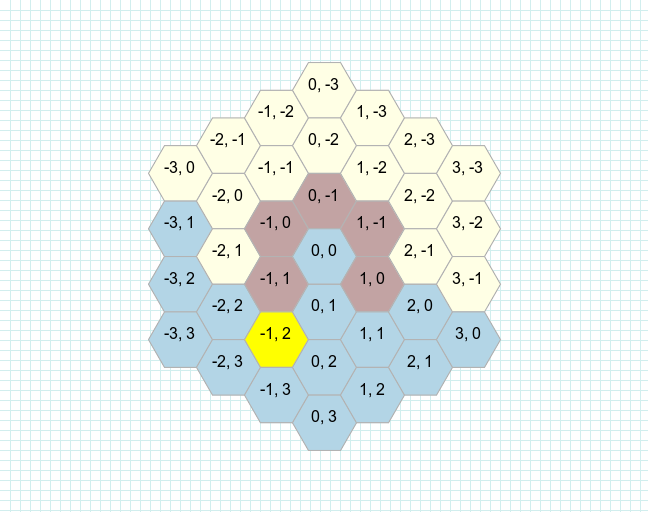
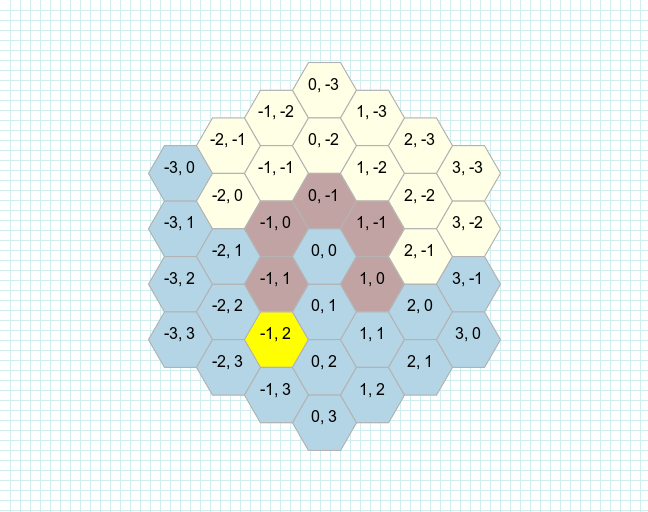
fix linedraw method

Changed region(s): [[0.679, 0.5, 0.7716, 0.625], [0.3086, 0.4375, 0.4012, 0.5625], [0.216, 0.2812, 0.3395, 0.4062]]

diff --git a/lib/rhex/cube_hex.rb b/lib/rhex/cube_hex.rb
@@ -117,11 +117,12 @@ module Rhex
     end
 
     def linedraw(target)
+      offset = Rhex::CubeHex.new(1e-6, 2e-6, -3e-6)
       distance = distance(target)
 
       (distance + 1).times.each_with_object([]) do |t, hexes|
         step = 1.0 / distance * t
-        hexes.push(cube_hex_lerp(target, step).round)
+        hexes.push(cube_hex_lerp(target, step).add(offset).round)
       end
     end
 
@@ -155,9 +156,9 @@ module Rhex
     end
 
     def round # rubocop:disable Metrics/AbcSize, Metrics/MethodLength
-      rounded_q = q.round(half: :down)
-      rounded_r = r.round(half: :down)
-      rounded_s = s.round(half: :down)
+      rounded_q = q.round
+      rounded_r = r.round
+      rounded_s = s.round
 
       q_diff = (rounded_q - q).abs
       r_diff = (rounded_r - r).abs
@@ -173,6 +174,14 @@ module Rhex
       Rhex::CubeHex.new(rounded_q, rounded_r, rounded_s, data: data, image_config: image_config)
     end
 
+    def subtract(hex)
+      Rhex::CubeHex.new(q - hex.q, r - hex.r, s - hex.s, data: data, image_config: image_config)
+    end
+
+    def add(hex)
+      Rhex::CubeHex.new(q + hex.q, r + hex.r, s + hex.s, data: data, image_config: image_config)
+    end
+
     private
 
     def cube_hex_lerp(hex, step)
@@ -183,14 +192,6 @@ module Rhex
         data: data,
         image_config: image_config
       )
-    end
-
-    def subtract(hex)
-      Rhex::CubeHex.new(q - hex.q, r - hex.r, s - hex.s, data: data, image_config: image_config)
-    end
-
-    def add(hex)
-      Rhex::CubeHex.new(q + hex.q, r + hex.r, s + hex.s, data: data, image_config: image_config)
     end
   end
 end

diff --git a/spec/lib/rhex/axial_hex_spec.rb b/spec/lib/rhex/axial_hex_spec.rb
@@ -22,8 +22,8 @@ RSpec.describe Rhex::AxialHex do
       )
 
       expect_field_of_view = coords_to_hexes(
-        [[0, 1], [1, 1], [0, 2], [-1, 3], [0, 3], [1, 2], [-3, 1], [-3, 2], [-3, 3],
-         [-2, 2], [-2, 3], [0, 0], [2, 0], [2, 1], [3, 0]],
+        [[0, 0], [0, 1], [1, 1], [0, 2], [-1, 3], [0, 3], [1, 2], [-3, 0], [-3, 1], [-3, 2], [-3, 3],
+         [-2, 1], [-2, 2], [-2, 3], [2, 0], [2, 1], [3, 0], [3, -1]],
         image_config: Rhex::ImageConfigs.path_image_config
       )
 
